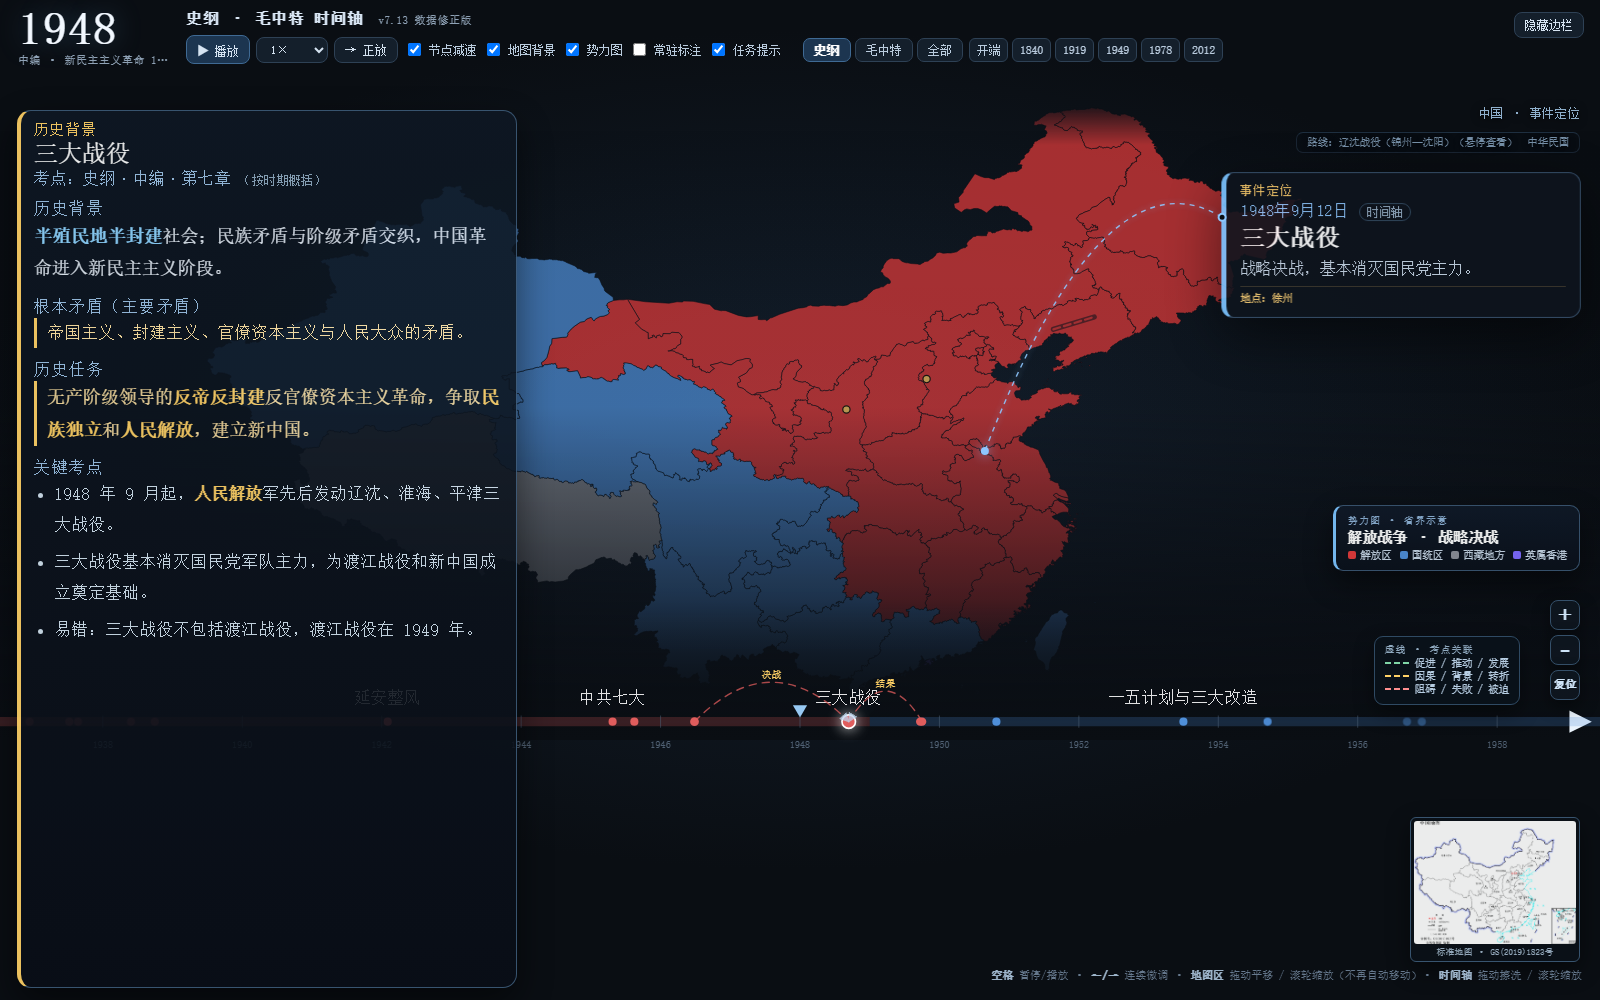
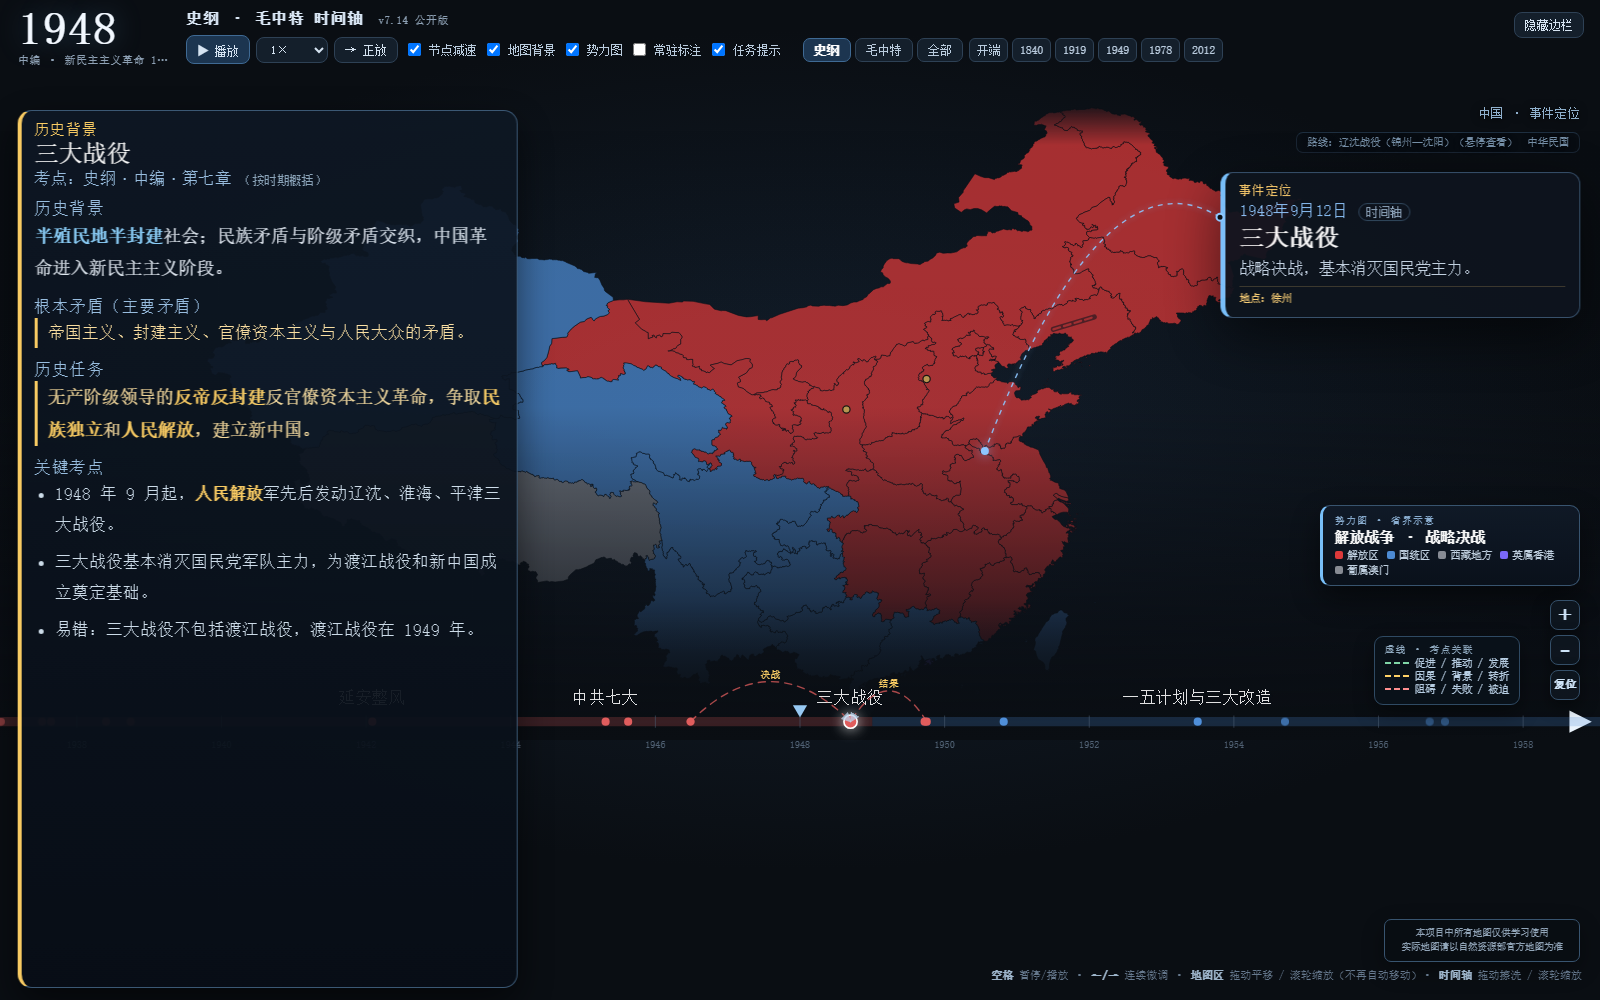
Use official standard map link; remove embedded map image

diff --git a/index.html b/index.html
@@ -3,7 +3,7 @@
 <head>
 <meta charset="utf-8">
 <meta name="viewport" content="width=device-width, initial-scale=1">
-<title>史纲 · 毛中特 时间轴（v7.13 数据修正版）</title>
+<title>史纲 · 毛中特 时间轴（v7.14 公开版）</title>
 <style>
   :root{ --bg1:#0a0e13; --bg2:#101823; --text:#e9f0f8; --muted:#8fa2b6; --line:#22303f; --accent:#7cc4ff; }
   *{box-sizing:border-box}
@@ -465,12 +465,11 @@
   #questPanel{overscroll-behavior:contain}
 
 
-  #standardMap{position:fixed;right:20px;bottom:38px;z-index:13;width:170px;display:block;
-    background:#0b1118;border:1px solid #3d5b78;border-radius:6px;padding:3px;text-decoration:none;
-    box-shadow:0 8px 24px rgba(0,0,0,.5);opacity:.92}
-  #standardMap img{display:block;width:100%;height:auto;border-radius:3px}
-  #standardMap span{display:block;margin-top:2px;font-size:9px;line-height:1.3;color:#9fb4c8;text-align:center}
-  #standardMap:hover{opacity:1}
+  #standardMap{position:fixed;right:20px;bottom:38px;z-index:13;width:196px;display:block;
+    background:rgba(8,14,20,.82);border:1px solid #3d5b78;border-radius:7px;padding:6px 8px;text-decoration:none;
+    box-shadow:0 8px 24px rgba(0,0,0,.4);opacity:.92}
+  #standardMap span{display:block;font-size:9.5px;line-height:1.55;color:#9fb4c8;text-align:center}
+  #standardMap:hover{opacity:1;border-color:#6f9ac2}
 \n  #factionNote .fnHint{font-size:10px;color:#8fa9bf;margin-top:6px;line-height:1.4;border-top:1px solid #2f4459;padding-top:5px}
   #battleNote, #taipingNote { display:none !important; }
   #factionTip { white-space:normal; max-width:300px; line-height:1.5; }
@@ -480,7 +479,7 @@
 <svg id="svg" xmlns="http://www.w3.org/2000/svg"></svg>
 
 <div id="topLeft">
-  <div id="title">史纲 · 毛中特 时间轴 <small>v7.13 数据修正版</small></div>
+  <div id="title">史纲 · 毛中特 时间轴 <small>v7.14 公开版</small></div>
   <button id="topToggle">隐藏边栏</button>
   <div id="controls">
     <button id="playBtn" class="pri">▶ 播放</button>
@@ -600,9 +599,8 @@
   <circle id="eventDot" r="4"></circle>
 </svg>
 <button id="topShow">☰ 菜单</button>
-<a id="standardMap" href="standard_map_GS2019_1823.jpg" target="_blank" rel="noopener" title="自然资源部标准地图 GS(2019)1823号">
-  <img src="standard_map_GS2019_1823.jpg" alt="中国标准地图 GS(2019)1823号">
-  <span>标准地图 · GS(2019)1823号</span>
+<a id="standardMap" href="https://bzdt.ch.mnr.gov.cn/" target="_blank" rel="noopener" title="自然资源部标准地图服务">
+  <span>本项目中所有地图仅供学习使用<br>实际地图请以自然资源部官方地图为准</span>
 </a>
 <div id="hint"><b>空格</b> 暂停/播放 · <b>←/→</b> 连续微调 · <b>地图区</b> 拖动平移 / 滚轮缩放（不再自动移动）· <b>时间轴</b> 拖动擦洗 / 滚轮缩放</div>
 <div id="battleNote">

diff --git a/README.md b/README.md
@@ -17,7 +17,7 @@
 - 事件定位：右侧事件卡 + 蓝色虚线 + 唯一端点，地址只在悬停时显示；
 - 左侧历史任务栏：历史背景、根本矛盾、历史任务、关键考点；
 - 长征、北伐、秋收、三大战役、渡江路线；
-- 右下角嵌入自然资源部标准地图 **GS(2019)1823号** 角标，完整含南海诸岛附图。
+- 右下角只提供自然资源部标准地图服务链接，不嵌入或再分发官方地图图片。
 
 ## 快速开始
 
@@ -56,7 +56,7 @@
 | `mapdata.js` | 现代中国省界 + 世界国界 |
 | `qing_phases.js` | 清代阶段疆域、太平天国控制区 |
 | `qing_provinces.js` | 1911 年历史省界 |
-| `standard_map_GS2019_1823.jpg` | 官方标准地图角标（审图号 GS(2019)1823号） |
+| `https://bzdt.ch.mnr.gov.cn/` | 自然资源部标准地图服务（页面右下角链接） |
 | `考点整理/` | 史纲、毛中特考点总表 |
 | `THIRD_PARTY_LICENSES.md` | 第三方数据来源与许可 |
 
@@ -75,9 +75,9 @@
 
 - 主交互地图的现代省界来自 **DataV.GeoAtlas**，历史省界来自 **CHGIS 1911**，世界背景来自 **Natural Earth**；
 - 主交互地图**不是**自然资源部标准地图；
-- 页面右下角另嵌官方标准地图 **GS(2019)1823号**，完整含南海诸岛附图，未裁切、未改边界，仅整体缩放；
-- 官方标准地图的版权/使用条件以自然资源部标准地图服务为准；
-- 公开传播前请核对最新地图使用条款，并保留审图号。
+- 本项目不再嵌入或再分发官方标准地图图片；
+- 页面右下角只提供自然资源部标准地图服务链接；
+- 页面声明：**本项目中所有地图仅供学习使用，实际地图请以自然资源部官方地图为准。**
 
 ## 免责声明
 
@@ -91,7 +91,7 @@
 - **代码**：MIT License，见 `LICENSE`；
 - **考点文字与整理内容**：仅供个人学习使用，转载请注明来源；未经许可不得用于商业出版；
 - **第三方地图/数据**：见 `THIRD_PARTY_LICENSES.md`；
-- **官方标准地图图片**：不属于 MIT 许可，使用条件以自然资源部标准地图服务为准。
+- **地图**：主交互地图为教学示意；官方标准地图请通过自然资源部标准地图服务查看。
 
 ## 贡献
 

diff --git a/THIRD_PARTY_LICENSES.md b/THIRD_PARTY_LICENSES.md
@@ -73,13 +73,10 @@ LIABILITY, WHETHER IN AN ACTION OF CONTRACT, TORT OR OTHERWISE, ARISING FROM,
 OUT OF OR IN CONNECTION WITH THE SOFTWARE OR THE USE OR OTHER DEALINGS IN THE
 SOFTWARE.
 
-## 7. 标准地图角标
+## 7. 标准地图链接
 
-- 文件：`standard_map_GS2019_1823.jpg`
-- 来源：自然资源部标准地图服务
-  - http://bzdt.ch.mnr.gov.cn/
-- 审图号：GS(2019)1823号
-- 获取时间：2026-11-03
-- 用途：页面右下角合规角标，完整展示中国地图（含南海诸岛附图），不裁切、不改边界，仅做整体 CSS 缩放。
-- 说明：该图版权/使用条件以自然资源部标准地图服务为准；公开传播前请再次核对该服务的最新使用条款，并保留审图号。该文件不属于本项目的 MIT 代码许可。
-
+- 本项目不再嵌入/再分发官方标准地图图片；
+- 页面右下角只提供自然资源部标准地图服务链接：
+  - https://bzdt.ch.mnr.gov.cn/
+- 页面声明：本项目中所有地图仅供学习使用，实际地图请以自然资源部官方地图为准。
+- 主交互地图仍是 DataV/CHGIS 历史教学示意底图，不是官方标准地图。

diff --git a/NOTICE.md b/NOTICE.md
@@ -19,14 +19,13 @@
 - “江山时序”公开历史数据：清代阶段疆域、太平天国示意；
 - 具体来源和许可见 `THIRD_PARTY_LICENSES.md`。
 
-## 官方标准地图图片
+## 标准地图
 
-- 文件：`standard_map_GS2019_1823.jpg`；
-- 审图号：GS(2019)1823号；
-- 来源：自然资源部标准地图服务；
-- 该图片不属于项目 MIT 许可；
-- 使用、转载、公开传播条件以自然资源部标准地图服务的最新条款为准；
-- 不要裁切、修改边界、去除审图号。
+- 本项目不再嵌入或再分发官方标准地图图片；
+- 页面右下角只提供自然资源部标准地图服务链接：
+  - https://bzdt.ch.mnr.gov.cn/
+- 页面声明：本项目中所有地图仅供学习使用，实际地图请以自然资源部官方地图为准；
+- 主交互地图为历史教学示意，不是官方标准地图。
 
 ## 政治与历史表述
 
